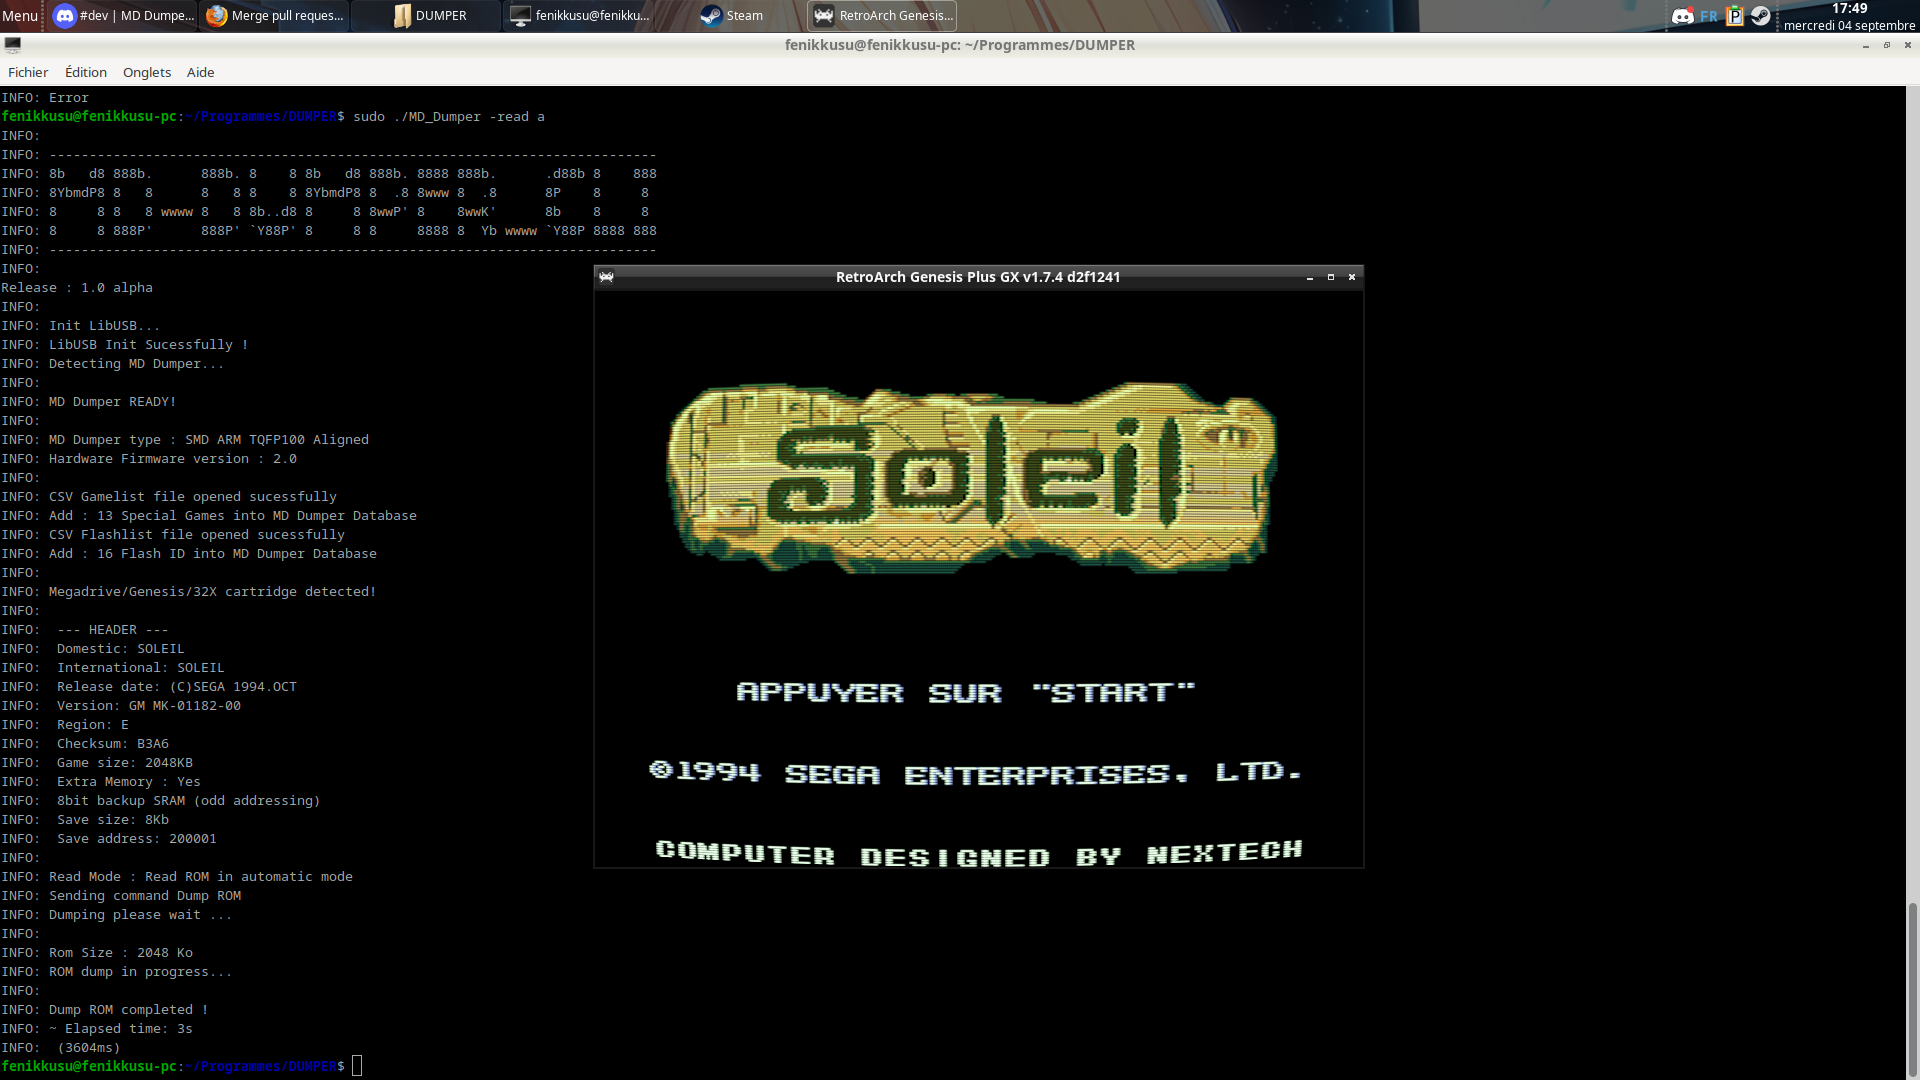
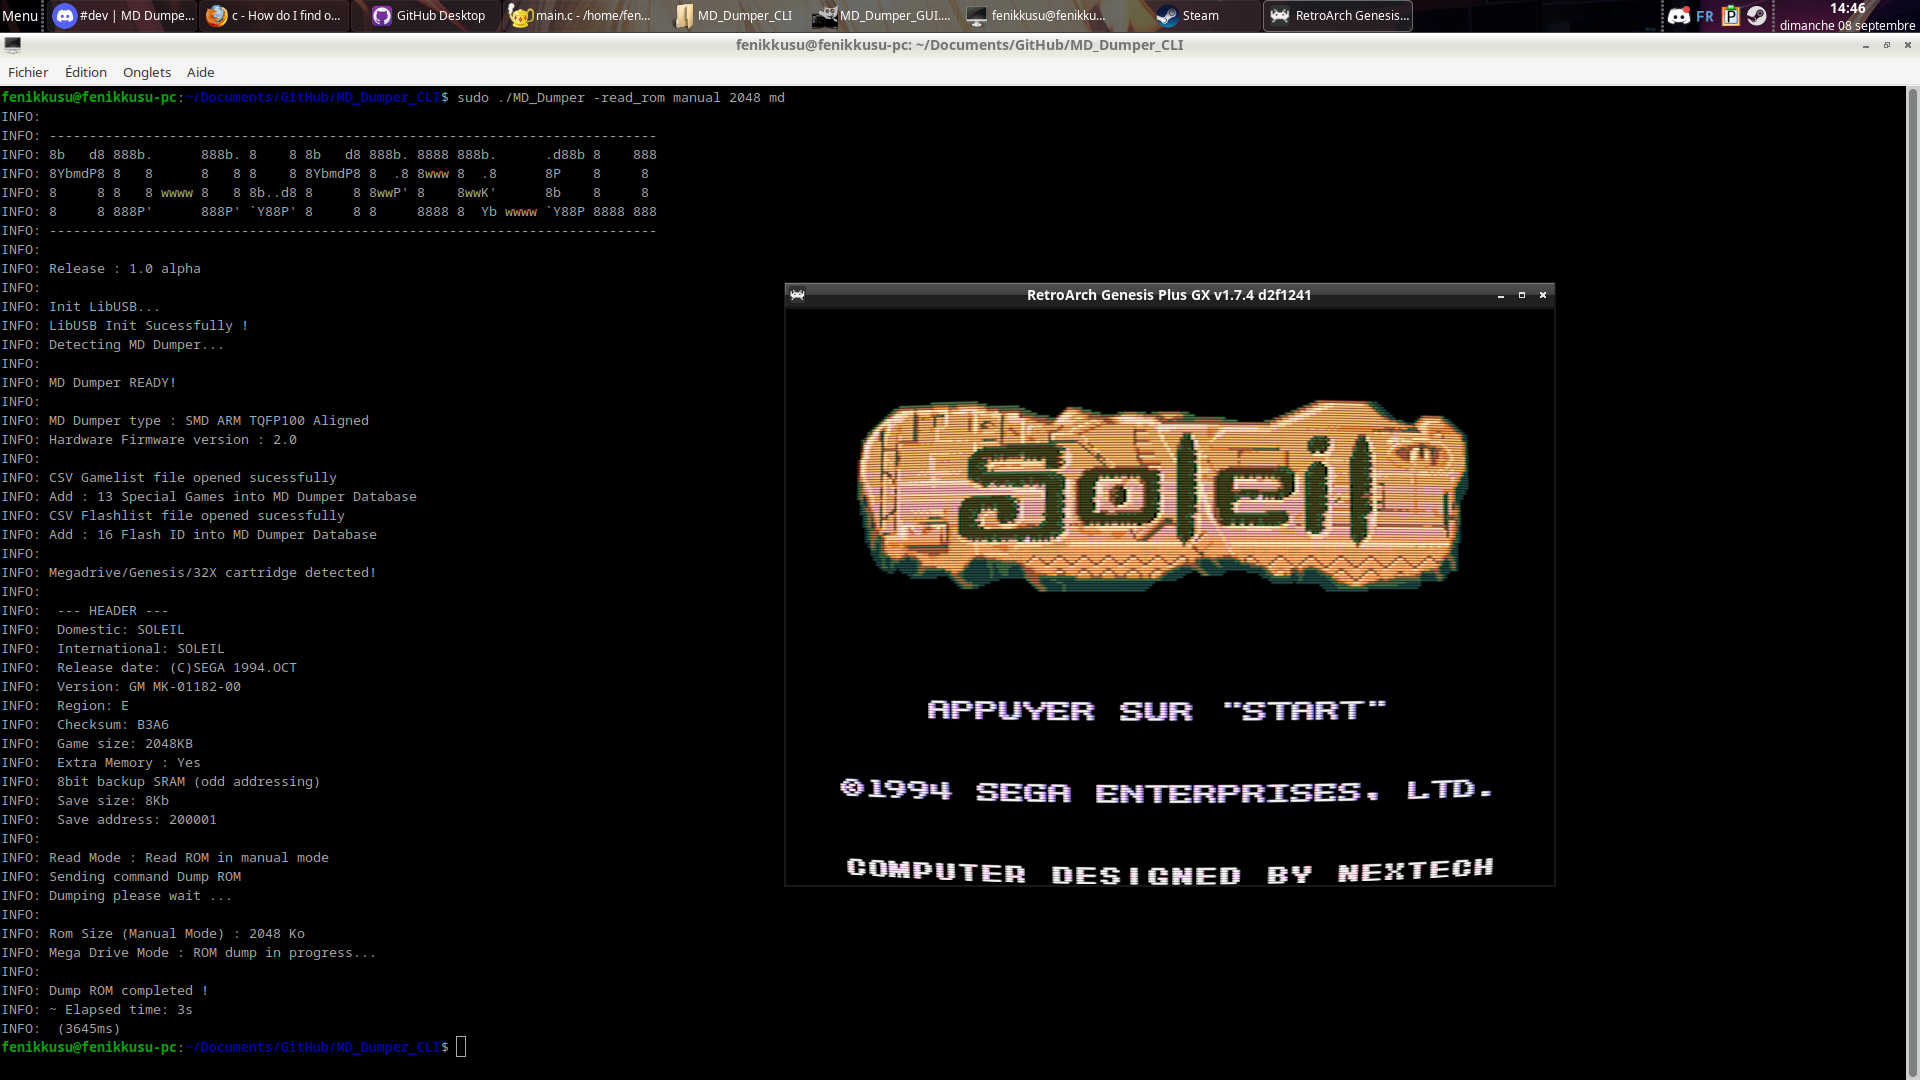
Fixed Help Call, modified commands names and added Save Types
Saves Types : vars created, functions needs to be added according to 'sram_type_opts' value in the code :
- 0 = Serial SPI
- 1 = Serial I2C
- 2 = Parallel SRAM

diff --git a/main.c b/main.c
@@ -25,28 +25,14 @@ int main(int argc, char *argv[])
 {
     SDL_LogSetPriority(SDL_LOG_CATEGORY_APPLICATION, SDL_LOG_PRIORITY_INFO); //Display informations on console
 
-    if (strcmp(argv[1], "-help") == 0)
+	if(argc == 1)
+	{
+		Display_Help(argv[0]);
+		return 1;
+	}
+    else if (strcmp(argv[1], "-help") == 0)
     {
-        SDL_Log("\n");
-        SDL_Log("How to use the program:\n");
-        SDL_Log("\n");
-        SDL_Log("GUI Mode:\n");
-        SDL_Log("  %s -gui\n", argv[0]);
-        SDL_Log("\n");
-        SDL_Log("CLI Mode:\n");
-        SDL_Log("\n");
-        SDL_Log("Read Mode:\n");
-        SDL_Log("  %s -read a  -  Auto Mode\n", argv[0]);
-        SDL_Log("  %s -read b  -  Bankswitch Mode\n", argv[0]);
-        SDL_Log("  %s -read m (32|64|128|256|512|1024|2048|4096) (md|sms) -  Manual Mode\n", argv[0]);
-        SDL_Log("  %s -read s (0|8192|32768) -  Read Save Data\n", argv[0]);
-        SDL_Log("\n");
-        SDL_Log("Write Mode:\n");
-        SDL_Log("  %s -write f e  -  Erase Flash Memory\n", argv[0]);
-        SDL_Log("  %s -write f w  -  Write Flash Memory\n", argv[0]);
-        SDL_Log("  %s -write s e  -  Erase Save Memory\n", argv[0]);
-        SDL_Log("  %s -write s w  -  Write Save Memory\n", argv[0]);
-        SDL_Log("\n");
+        Display_Help(argv[0]);
         return 1;
     }
 
@@ -233,8 +219,34 @@ int main(int argc, char *argv[])
                         SDL_RenderDrawPoint(renderer, x, y);
                 break;
             }
-
-
+            
+            switch(sram_type_opts)		//Memory type opts
+            {
+            case 0:						//Serial SPI
+                for (int x = 26; x <=31; x++)
+                    for (int y = 356; y <=361; y++)
+                        SDL_RenderDrawPoint(renderer, x, y);
+                for (int x = 538; x <=543; x++)
+                    for (int y = 200; y <=205; y++)
+                        SDL_RenderDrawPoint(renderer, x, y);
+                break;
+            case 1:						//Serial I2C
+                for (int x = 146; x <=151; x++)
+                    for (int y = 356; y <=361; y++)
+                        SDL_RenderDrawPoint(renderer, x, y);
+                for (int x = 658; x <=663; x++)
+                    for (int y = 200; y <=205; y++)
+                        SDL_RenderDrawPoint(renderer, x, y);
+                break;
+            case 2:						//Parallel SRAM
+                for (int x = 266; x <=271; x++)
+                    for (int y = 356; y <=361; y++)
+                        SDL_RenderDrawPoint(renderer, x, y);
+                for (int x = 778; x <=783; x++)
+                    for (int y = 200; y <=205; y++)
+                        SDL_RenderDrawPoint(renderer, x, y);
+                break;
+            }
 
             //Display Texture
             SDL_RenderPresent(renderer);
@@ -279,6 +291,8 @@ int main(int argc, char *argv[])
                         dump_manual_cart_mode_opts = 0;			//Mega Drive Cartridge Mode
                     else if (mouse_y>=316 && mouse_y<=325)
                         dump_sram_size_opts = 0;				//Memory Size : Auto
+                    else if (mouse_y>=354 && mouse_y<=363)
+                        sram_type_opts = 0;						//Memory Type : Serial SPI
                 }
                 else if(mouse_x>=329 && mouse_x<=338)
                 {
@@ -300,6 +314,8 @@ int main(int argc, char *argv[])
                         dump_manual_cart_mode_opts = 1;			//Master System Cartridge Mode
                     else if (mouse_y>=316 && mouse_y<=325)
                         dump_sram_size_opts = 1;				//Memory Size : 8192
+                    else if (mouse_y>=354 && mouse_y<=363)
+                        sram_type_opts = 1;						//Memory Type : Serial I2C
                 }
                 else if(mouse_x>=264 && mouse_x<=273)
                 {
@@ -309,6 +325,8 @@ int main(int argc, char *argv[])
                         dump_manual_size_opts = 6;				//2048KB
                     else if (mouse_y>=316 && mouse_y<=325)
                         dump_sram_size_opts = 2;				//Memory Size : 32768
+                    else if (mouse_y>=354 && mouse_y<=363)
+                        sram_type_opts = 2;						//Memory Type : Parallel SRAM
                 }
                 else if(mouse_x>=384 && mouse_x<=393)
                 {
@@ -323,6 +341,8 @@ int main(int argc, char *argv[])
                         write_flash = 1;						//Write Flash
                     else if (mouse_y>=161 && mouse_y<=168)
                         write_save = 1;							//Write Save
+                    else if (mouse_y>=198 && mouse_y<=206)
+                        sram_type_opts = 0;						//Memory Type : Serial SPI
                 }
                 else if(mouse_x>=644 && mouse_x<=651)
                 {
@@ -330,6 +350,16 @@ int main(int argc, char *argv[])
                         write_flash = 0;						//Erase Flash
                     else if (mouse_y>=161 && mouse_y<=168)
                         write_save = 0;							//Erase Save
+                }
+                else if(mouse_x>=656 && mouse_x<=665)
+                {
+					if (mouse_y>=198 && mouse_y<=206)
+                        sram_type_opts = 1;						//Memory Type : Serial I2C
+                }
+				else if(mouse_x>=776 && mouse_x<=785)
+                {
+					if (mouse_y>=198 && mouse_y<=206)
+                        sram_type_opts = 2;						//Memory Type : Parallel SRAM
                 }
                 else if(mouse_x>=16 && mouse_x<=199)
                 {
@@ -396,26 +426,19 @@ int main(int argc, char *argv[])
     // Vérifier le nombre d'arguments
     if(use_gui==0)						//Vérifier que nous utilisons le mode CLI
     {
-        //Mode Lecture
-        if (strcmp(argv[1], "-read") == 0)
-        {
-            // Vérifier le deuxième argument
-            if (strcmp(argv[2], "a") != 0 && strcmp(argv[2], "b") != 0 && strcmp(argv[2], "m") != 0 && strcmp(argv[2], "s") != 0)
+        //Lecture de la ROM
+        if (strcmp(argv[1], "-read_rom") == 0)
+		{
+            if (strcmp(argv[2], "auto")==0)
             {
-                SDL_Log("You must select 'a' (Auto), 'b' (Bankswitch), 'm' (Manual) or 's' (Read Save).\n");
-                return 1;
-            }
-
-            if (strcmp(argv[2], "a") == 0)
-            {
-                opts_choice=0;    //Mode Auto
+				opts_choice=0;
                 dump_mode=0;
-            }
-            else if (strcmp(argv[2], "m") == 0)					//Mode Manuel
+			}
+			else  if (strcmp(argv[2], "manual")==0)
             {
-                dump_mode=1;
-                opts_choice=0;
-                // Vérifier le 3ème argument
+				opts_choice=0;
+				dump_mode=1;
+                
                 if (strcmp(argv[3], "32") == 0)
                 {
                     manual_game_size = 32;
@@ -453,6 +476,7 @@ int main(int argc, char *argv[])
                     SDL_Log("You must write one of the following values to set the game size : 32, 64, 128, 256, 512, 1024, 2048, 4096.\n");
                     return 1;
                 }
+                
                 if (strcmp(argv[4], "md") == 0)
                 {
                     manual_game_cart_mode = 0;
@@ -466,87 +490,105 @@ int main(int argc, char *argv[])
                     SDL_Log("You must write one of the following values to set the cartridge type : md, sms.\n");
                     return 1;
                 }
-            }
-            else if (strcmp(argv[2], "b") == 0)
+			}
+            else if (strcmp(argv[2], "bankswitch") == 0)
             {
-                dump_mode=2;    //Mode Bankswitch
-                opts_choice=0;
+				opts_choice=0;
+                dump_mode=2;
             }
-            else if (strcmp(argv[2], "s") == 0)
-            {
-                opts_choice=1;
-                // Vérifier le 3ème argument
-                if (strcmp(argv[3], "0") == 0)
-                    dump_sram_size_opts = 0;
-                else if (strcmp(argv[3], "8192") == 0)
-                    dump_sram_size_opts = 1;
-                else if (strcmp(argv[3], "32768") == 0)
-                    dump_sram_size_opts = 2;
-                else
-                {
-                    SDL_Log("You must write one of the following values to set the save size  : 0 (Auto), 8192, 32768.\n");
-                    return 1;
-                }
-            }
+            else
+			{
+                SDL_Log("You must select 'a' (Auto), 'b' (Bankswitch) or 'm' (Manual).\n");
+                return 1;
+			}
         }
-        //Mode Ecriture
-        else if (strcmp(argv[1], "-write") == 0)
-        {
-            // Vérifier le deuxième argument
-            if (strcmp(argv[2], "f") != 0 && strcmp(argv[2], "s") != 0 )
+        else if (strcmp(argv[1], "-backup_memory") == 0)
+		{
+			if (strcmp(argv[2], "0") == 0)
+				dump_sram_size_opts = 0;
+            else if (strcmp(argv[2], "8192") == 0)
+                dump_sram_size_opts = 1;
+            else if (strcmp(argv[2], "32768") == 0)
+                dump_sram_size_opts = 2;
+            else
             {
-                SDL_Log("You must write 'f' (Flash) or 's' (Save).\n");
+                SDL_Log("You must write one of the following values to set the save size  : 0 (Auto), 8192, 32768.\n");
                 return 1;
             }
-
-            if (strcmp(argv[2], "f") == 0)
+            
+            if (strcmp(argv[3], "serial_spi") == 0)
+				sram_type_opts = 0;
+            else if (strcmp(argv[3], "serial_i2c") == 0)
+                sram_type_opts = 1;
+            else if (strcmp(argv[3], "parallel_sram") == 0)
+                sram_type_opts = 2;
+            else
             {
-                // Vérifier le troisième argument
-                if (strcmp(argv[3], "e") == 0 )
-                {
-                    opts_choice=2;
-                    write_flash=0;
-                }
-                else if (strcmp(argv[3], "w") == 0 )
-                {
-                    opts_choice=2;
-                    write_flash=1;
-                }
+                SDL_Log("You must write one of the following values to select the save type : serial_spi, serial_i2c, parallel_sram.\n");
+                return 1;
             }
-            else if (strcmp(argv[2], "s") == 0)
+		}
+        else if (strcmp(argv[1], "-erase_flash") == 0)
+        {
+			opts_choice=2;
+            write_flash=0;
+		}
+		else if (strcmp(argv[1], "-write_flash") == 0)
+        {
+			opts_choice=2;
+            write_flash=1;
+		}
+		else if (strcmp(argv[1], "-erase_memory") == 0)
+        {
+			opts_choice=3;
+            write_save=0;
+            
+            if (strcmp(argv[2], "serial_spi") == 0)
+				sram_type_opts = 0;
+            else if (strcmp(argv[2], "serial_i2c") == 0)
+                sram_type_opts = 1;
+            else if (strcmp(argv[2], "parallel_sram") == 0)
+                sram_type_opts = 2;
+            else
             {
-                // Vérifier le troisième argument
-                if (strcmp(argv[3], "e") == 0 )
-                {
-                    opts_choice=3;
-                    write_save=0;
-                }
-                else if (strcmp(argv[3], "w") == 0 )
-                {
-                    opts_choice=3;
-                    write_save=1;
-                }
+                SDL_Log("You must write one of the following values to select the save type : serial_spi, serial_i2c, parallel_sram.\n");
+                return 1;
             }
-
-
-        }
+		}
+		else if (strcmp(argv[1], "-write_memory") == 0)
+        {
+			opts_choice=3;
+            write_save=0;
+            
+            if (strcmp(argv[2], "serial_spi") == 0)
+				sram_type_opts = 0;
+            else if (strcmp(argv[2], "serial_i2c") == 0)
+                sram_type_opts = 1;
+            else if (strcmp(argv[2], "parallel_sram") == 0)
+                sram_type_opts = 2;
+            else
+            {
+                SDL_Log("You must write one of the following values to select the save type : serial_spi, serial_i2c, parallel_sram.\n");
+                return 1;
+            }
+		}
         //Erreur
         else
         {
-            SDL_Log("You must write '-read' or '-write' .\n");
+            SDL_Log("You must write '-read_rom', '-backup_memory', '-erase_flash', '-write_flash', '-erase_memory' or '-write_memory' .\n");
             return 1;
         }
     }
 
-    if ( dump_mode==0 && opts_choice==0 )										//Mode Automatique
+    if ( dump_mode==0 && opts_choice==0 )
     {
         return Read_ROM_Auto();
     }
-    else if ( dump_mode==1 && opts_choice==0 )								//Mode Manuel
+    else if ( dump_mode==1 && opts_choice==0 )
     {
         return Read_ROM_Manual();
     }
-    else if ( dump_mode==2 && opts_choice==0 )								//Mode Bankswitch
+    else if ( dump_mode==2 && opts_choice==0 )
     {
         return Read_ROM_Bankswitch();
     }

diff --git a/md_dumper_main.h b/md_dumper_main.h
@@ -136,6 +136,7 @@ int dump_manual_cart_mode_opts=0; 		/* 0=MD MODE, 1=SMS MODE */
 int write_flash=1;				 		/* 1=Write, 0=Erase */
 int write_save=1;				 		/* 1=Write, 0=Erase */
 int dump_sram_size_opts=0; 				/* 0=Automatic, 1=8192, 2=32768 */
+int sram_type_opts=0; 					/* 0=serial_spi, 1=serial_i2c, 2=parallel_sram */
 int game_size=0;
 int manual_game_size=0;
 int manual_game_cart_mode=0;
@@ -158,6 +159,27 @@ unsigned char manufacturer_id=0;
 const char * wheel[] = { "-","\\","|","/"}; //erase wheel
 
 //Others Functions
+void Display_Help(char *prog_name)
+{
+    SDL_Log("\n");
+    SDL_Log("How to use the program:\n");
+    SDL_Log("\n");
+    SDL_Log("GUI Mode:\n");
+    SDL_Log("  %s -gui\n", prog_name);
+    SDL_Log("\n");
+    SDL_Log("CLI Mode:\n");
+    SDL_Log("\n");
+    SDL_Log("  %s -read_rom auto  -  Auto Mode\n", prog_name);
+    SDL_Log("  %s -read_rom bankswitch  -  Bankswitch Mode\n", prog_name);
+    SDL_Log("  %s -read_rom manual (32|64|128|256|512|1024|2048|4096) (md|sms) -  Manual Mode\n", prog_name);
+    SDL_Log("  %s -backup_memory (0|8192|32768) (serial_spi|serial_i2c|parallel_sram) -  Read Save/Memory Data\n", prog_name);
+    SDL_Log("\n");
+    SDL_Log("  %s -erase_flash -  Erase Flash Data\n", prog_name);
+    SDL_Log("  %s -write_flash -  Write Flash Data\n", prog_name);
+    SDL_Log("  %s -erase_memory (serial_spi|serial_i2c|parallel_sram) -  Erase Save/Memory Data\n", prog_name);
+    SDL_Log("  %s -restore_memory (serial_spi|serial_i2c|parallel_sram) - Write Save/Memory Data\n", prog_name);
+    SDL_Log("\n");
+}
 
 void cb1(void *s, size_t len, void *data)
 {

diff --git a/README.md b/README.md
@@ -12,18 +12,18 @@ It allows you to dump Mega Drive cartridges and Master System cartridges (tested
 
 Read mode :
 ```
--read a  :  Auto Mode
--read b  :  Bankswitch Mode
--read m (32|64|128|256|512|1024|2048|4096) (md|sms) :  Manual Mode
--read s (0|8192|32768) :  Read Save Data
+-read_rom auto  :  Auto Mode
+-read_rom bankswitch  :  Bankswitch Mode
+-read_rom manual (32|64|128|256|512|1024|2048|4096) (md|sms) :  Manual Mode
+-backup_memory (0|8192|32768) (serial_spi|serial_i2c|parallel_sram):  Read Save Data
 ```
 
 Write mode :
 ```
--write f e  :  Erase Flash Memory
--write f w  :  Write Flash Memory
--write s e  :  Erase Save Memory
--write s w  :  Write Save Memory
+-erase_flash  :  Erase Flash Memory
+-write_flash  :  Write Flash Memory
+-erase_memory (serial_spi|serial_i2c|parallel_sram) :  Erase Save Memory
+-restore_memory (serial_spi|serial_i2c|parallel_sram)  :  Write Save Memory
 ```
 
 ### GUI Mode
